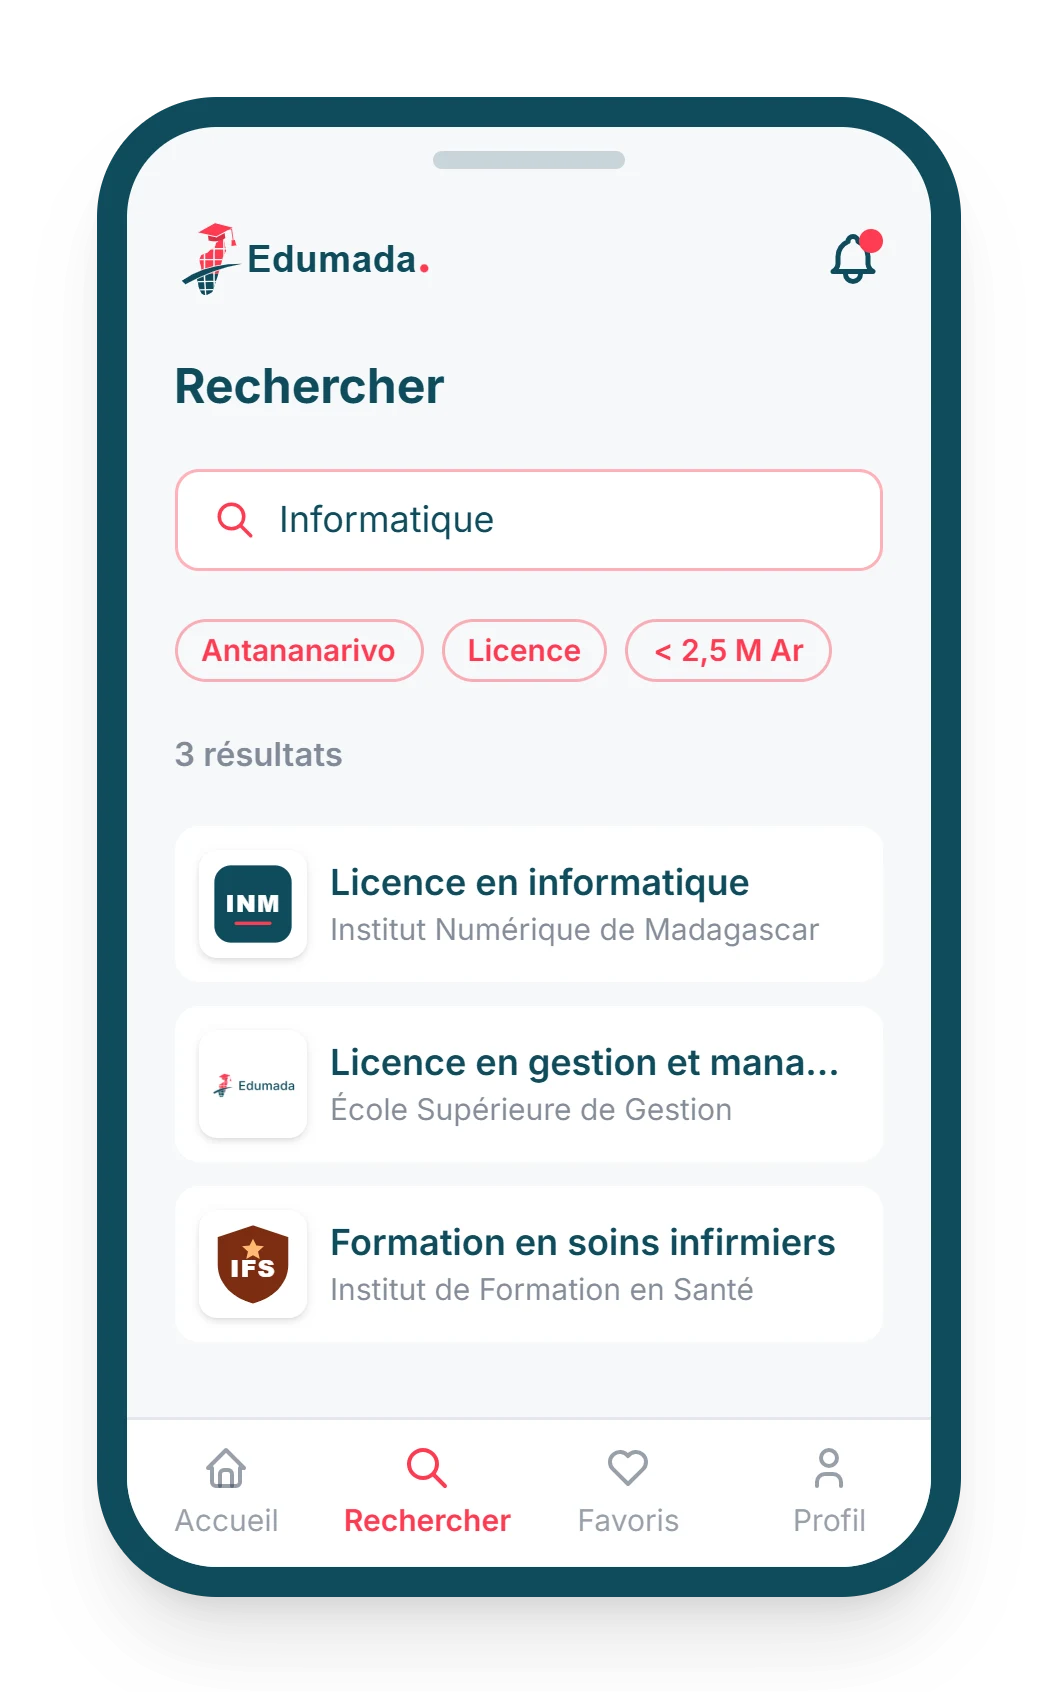
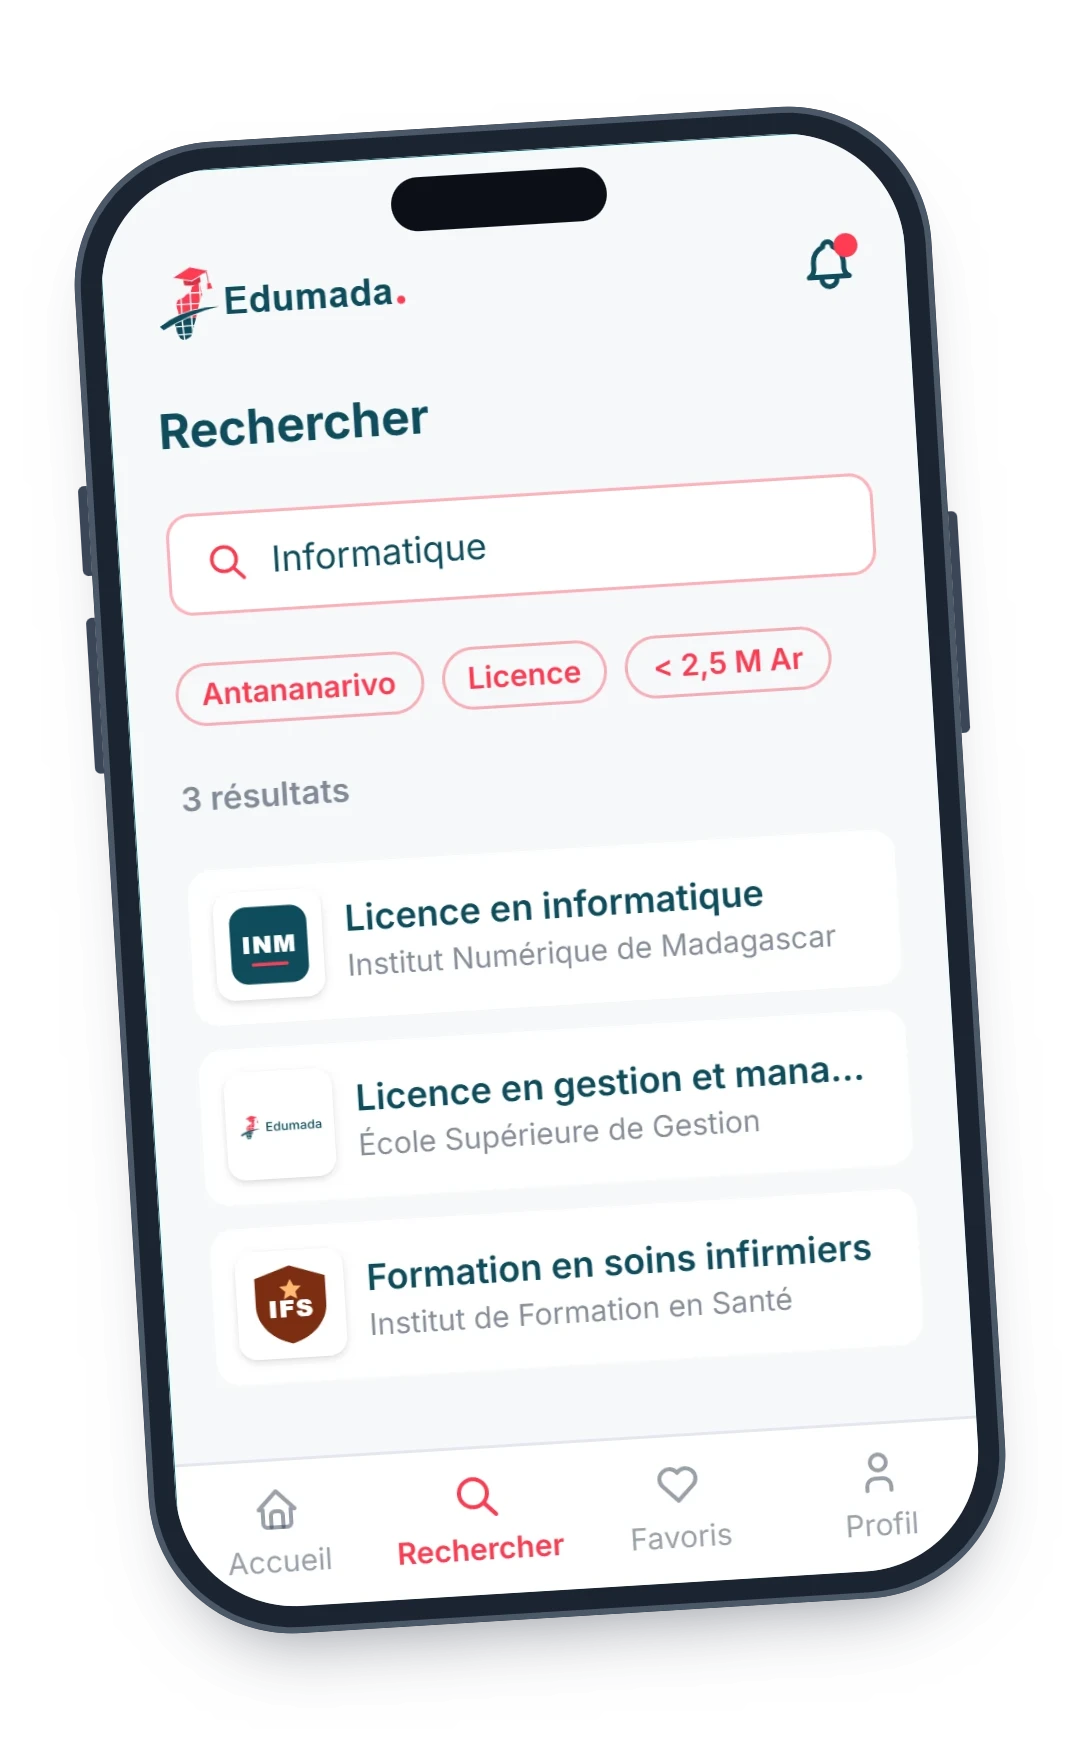
Accueil : Comment ça marche, nouveau style et entrée animée des téléphones

diff --git a/src/features/marketing/components/HowItWorksPhones.tsx b/src/features/marketing/components/HowItWorksPhones.tsx
@@ -1,46 +1,68 @@
 'use client'
 import Image from 'next/image'
+import { motion, MotionConfig } from 'framer-motion'
+import { Icon } from '@/components/ui/icon'
 import SectionHeader from '@/components/ui/section-header'
 import withBasePath from '@/lib/base-path'
 import { useT } from '@/i18n/client'
 
-/** Captures à 3x de PhoneMockup, fond transparent, avec une marge de 32 px pour l'ombre du téléphone. */
+/** Captures d'écrans à 3x, fond transparent : leur contenu ne suit pas le catalogue. */
 const STEPS = [
-    { title: 'Recherchez', text: 'Filtrez les formations par domaine, ville, niveau et budget.', image: 'etape-1', alt: 'Recherche de formations sur Edumada, avec des filtres et trois résultats' },
-    { title: 'Comparez', text: 'Durée, frais, diplôme, admission : les mêmes repères sur chaque fiche.', image: 'etape-2', alt: 'Fiche d’une licence en informatique : diplôme, durée, frais et inscriptions' },
-    { title: 'Contactez', text: 'Envoyez votre demande à l’établissement et suivez sa réponse.', image: 'etape-3', alt: 'Suivi d’une demande envoyée à un établissement' },
+    { title: 'Recherchez', text: 'Filtrez les formations selon vos critères.', image: 'etape-1', alt: 'Recherche de formations sur Edumada, avec des filtres et trois résultats' },
+    { title: 'Comparez', text: 'Consultez les informations de chaque formation.', image: 'etape-2', alt: 'Fiche d’une licence en informatique : diplôme, durée, frais et inscriptions' },
+    { title: 'Contactez', text: 'Envoyez votre demande à l’établissement.', image: 'etape-3', alt: 'Suivi d’une demande envoyée à un établissement' },
 ]
+
+/** Entrée de chaque téléphone : il monte, s'agrandit et se redresse depuis l'extérieur, l'un après l'autre. */
+const phoneEntrance = (index: number) => ({
+    initial: { opacity: 0, y: 72, scale: 0.88, rotate: [-9, 0, 9][index] },
+    whileInView: { opacity: 1, y: 0, scale: 1, rotate: 0 },
+    viewport: { once: true, amount: 0.3 },
+    transition: { type: 'spring' as const, stiffness: 90, damping: 14, delay: index * 0.18 },
+})
 
 /** Section « Comment ça marche ? » : les trois étapes, chacune sur un téléphone. */
 export default function HowItWorksPhones() {
     const t = useT()
 
     return (
-        <section>
+        <section className='overflow-hidden'>
             <div className='container mx-auto max-w-site px-4 sm:px-6 lg:px-8'>
                 <SectionHeader title='Comment ça marche ?' description='Trois étapes pour trouver sa formation sur Edumada.' className='text-center sm:justify-center' />
-                <ol className='grid gap-12 md:grid-cols-3 md:gap-6'>
+                {/* Animation réduite à un fondu si l'appareil demande moins de mouvement. */}
+                <MotionConfig reducedMotion='user'>
+                <ol className='mx-auto grid max-w-5xl gap-14 md:grid-cols-3 md:gap-10'>
                     {STEPS.map((step, index) => (
-                        <li key={step.title} className='flex flex-col items-center gap-6'>
-                            <div className='relative -my-8 w-full max-w-[22rem]'>
-                                <div className='absolute inset-2 -z-10 rounded-full bg-cream blur-2xl' />
-                                <Image
-                                    src={withBasePath(`/images/comment-ca-marche/${step.image}.webp`)}
-                                    alt={step.alt}
-                                    width={1056}
-                                    height={1692}
-                                    sizes='(min-width: 768px) 33vw, 352px'
-                                    className='h-auto w-full'
-                                />
+                        <li key={step.title} className='relative flex flex-col items-center text-center'>
+                            {index > 0 && (
+                                <span
+                                    aria-hidden='true'
+                                    className='absolute -top-11 left-1/2 z-10 flex h-11 w-11 -translate-x-1/2 rotate-90 items-center justify-center rounded-full bg-white text-primary shadow-[0_8px_20px_-8px_rgba(15,76,92,0.35)] md:-left-5 md:top-[38%] md:translate-x-[-50%] md:rotate-0'>
+                                    <Icon icon='tabler:chevron-right' className='text-2xl' />
+                                </span>
+                            )}
+                            <div className='relative w-full max-w-[17rem]'>
+                                <div aria-hidden='true' className='absolute inset-x-[-12%] bottom-[16%] top-[16%] rounded-full bg-cream/70' />
+                                <motion.div className='relative' {...phoneEntrance(index)}>
+                                    <Image
+                                        src={withBasePath(`/images/comment-ca-marche/${step.image}.webp`)}
+                                        alt={step.alt}
+                                        width={1080}
+                                        height={1740}
+                                        sizes='272px'
+                                        className='h-auto w-full'
+                                    />
+                                    <span className='absolute -bottom-3 left-1/2 flex h-12 w-12 -translate-x-1/2 items-center justify-center rounded-full border-[3px] border-white bg-primary text-xl font-bold text-white shadow-md'>
+                                        {index + 1}
+                                    </span>
+                                </motion.div>
                             </div>
-                            <div className='flex max-w-xs flex-col items-center gap-2 text-center'>
-                                <span className='flex h-10 w-10 items-center justify-center rounded-full bg-primary font-bold text-white'>{index + 1}</span>
-                                <h3 className='text-lg font-semibold text-secondary'>{t(step.title)}</h3>
-                                <p className='text-black'>{t(step.text)}</p>
-                            </div>
+                            <h3 className='mt-6 text-xl font-bold text-black'>{t(step.title)}</h3>
+                            <p className='mt-1 max-w-[15rem] text-ink'>{step.text}</p>
                         </li>
                     ))}
                 </ol>
+                </MotionConfig>
             </div>
         </section>
     )
